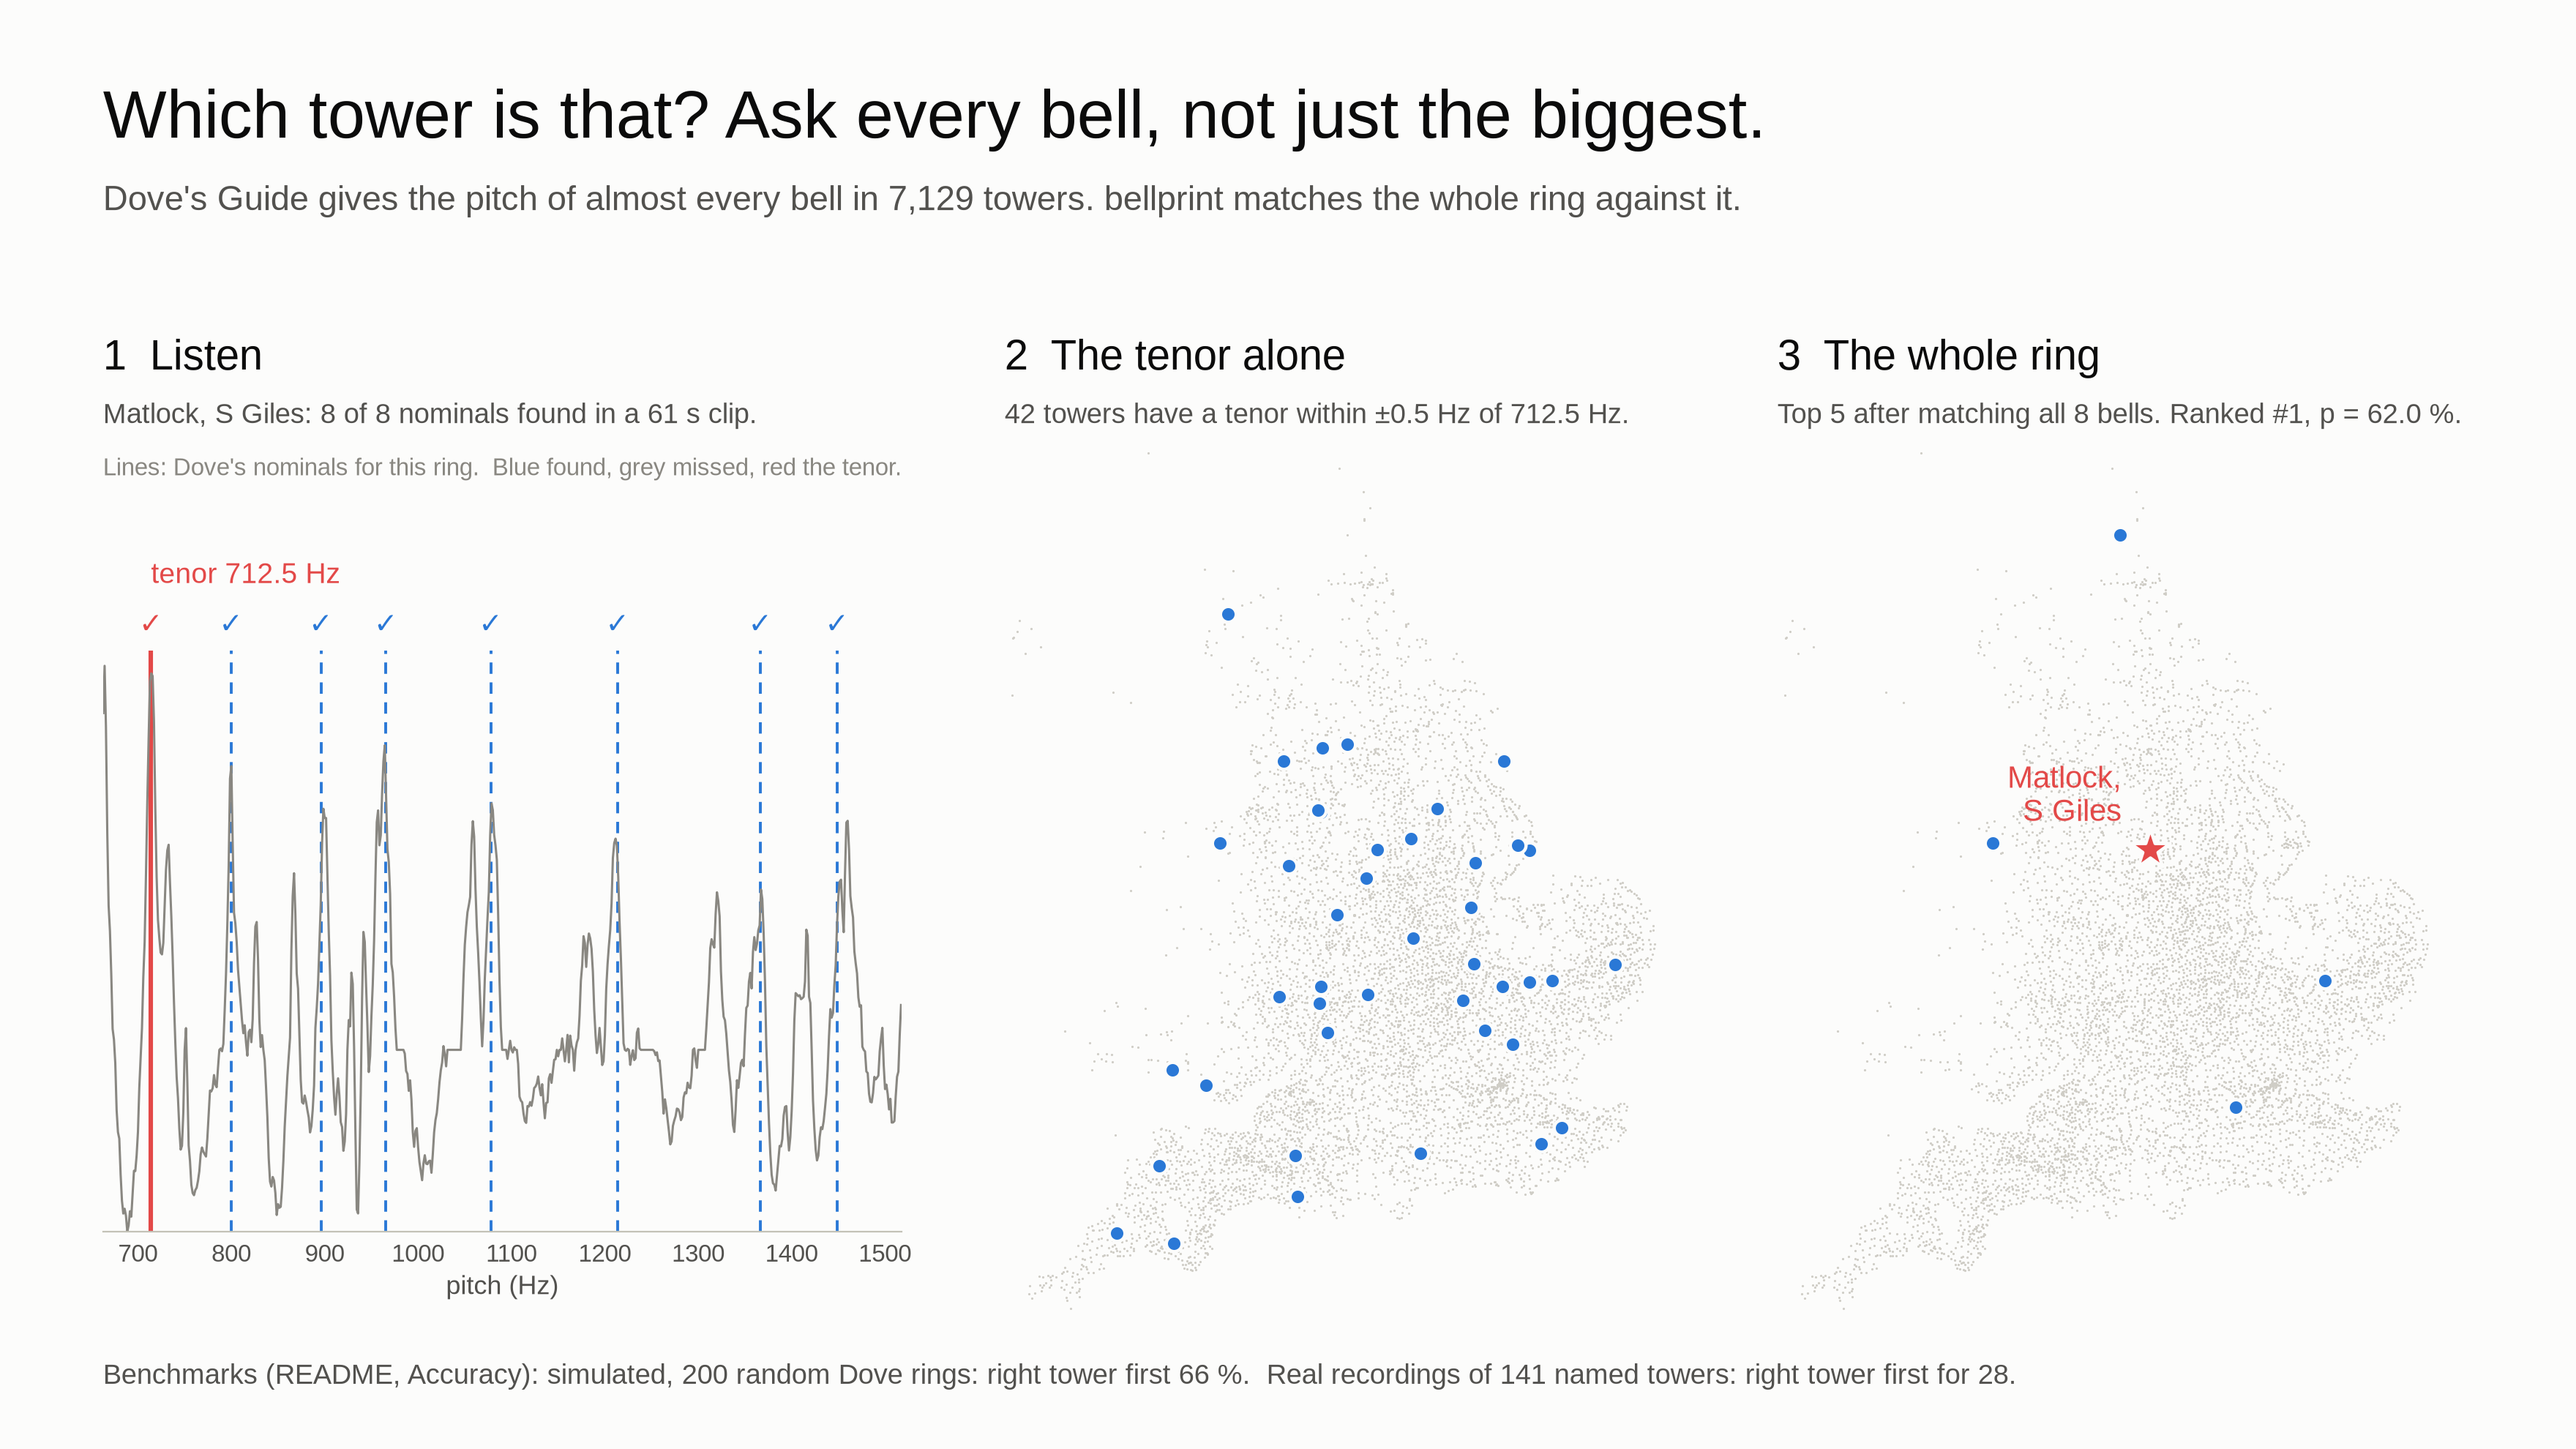
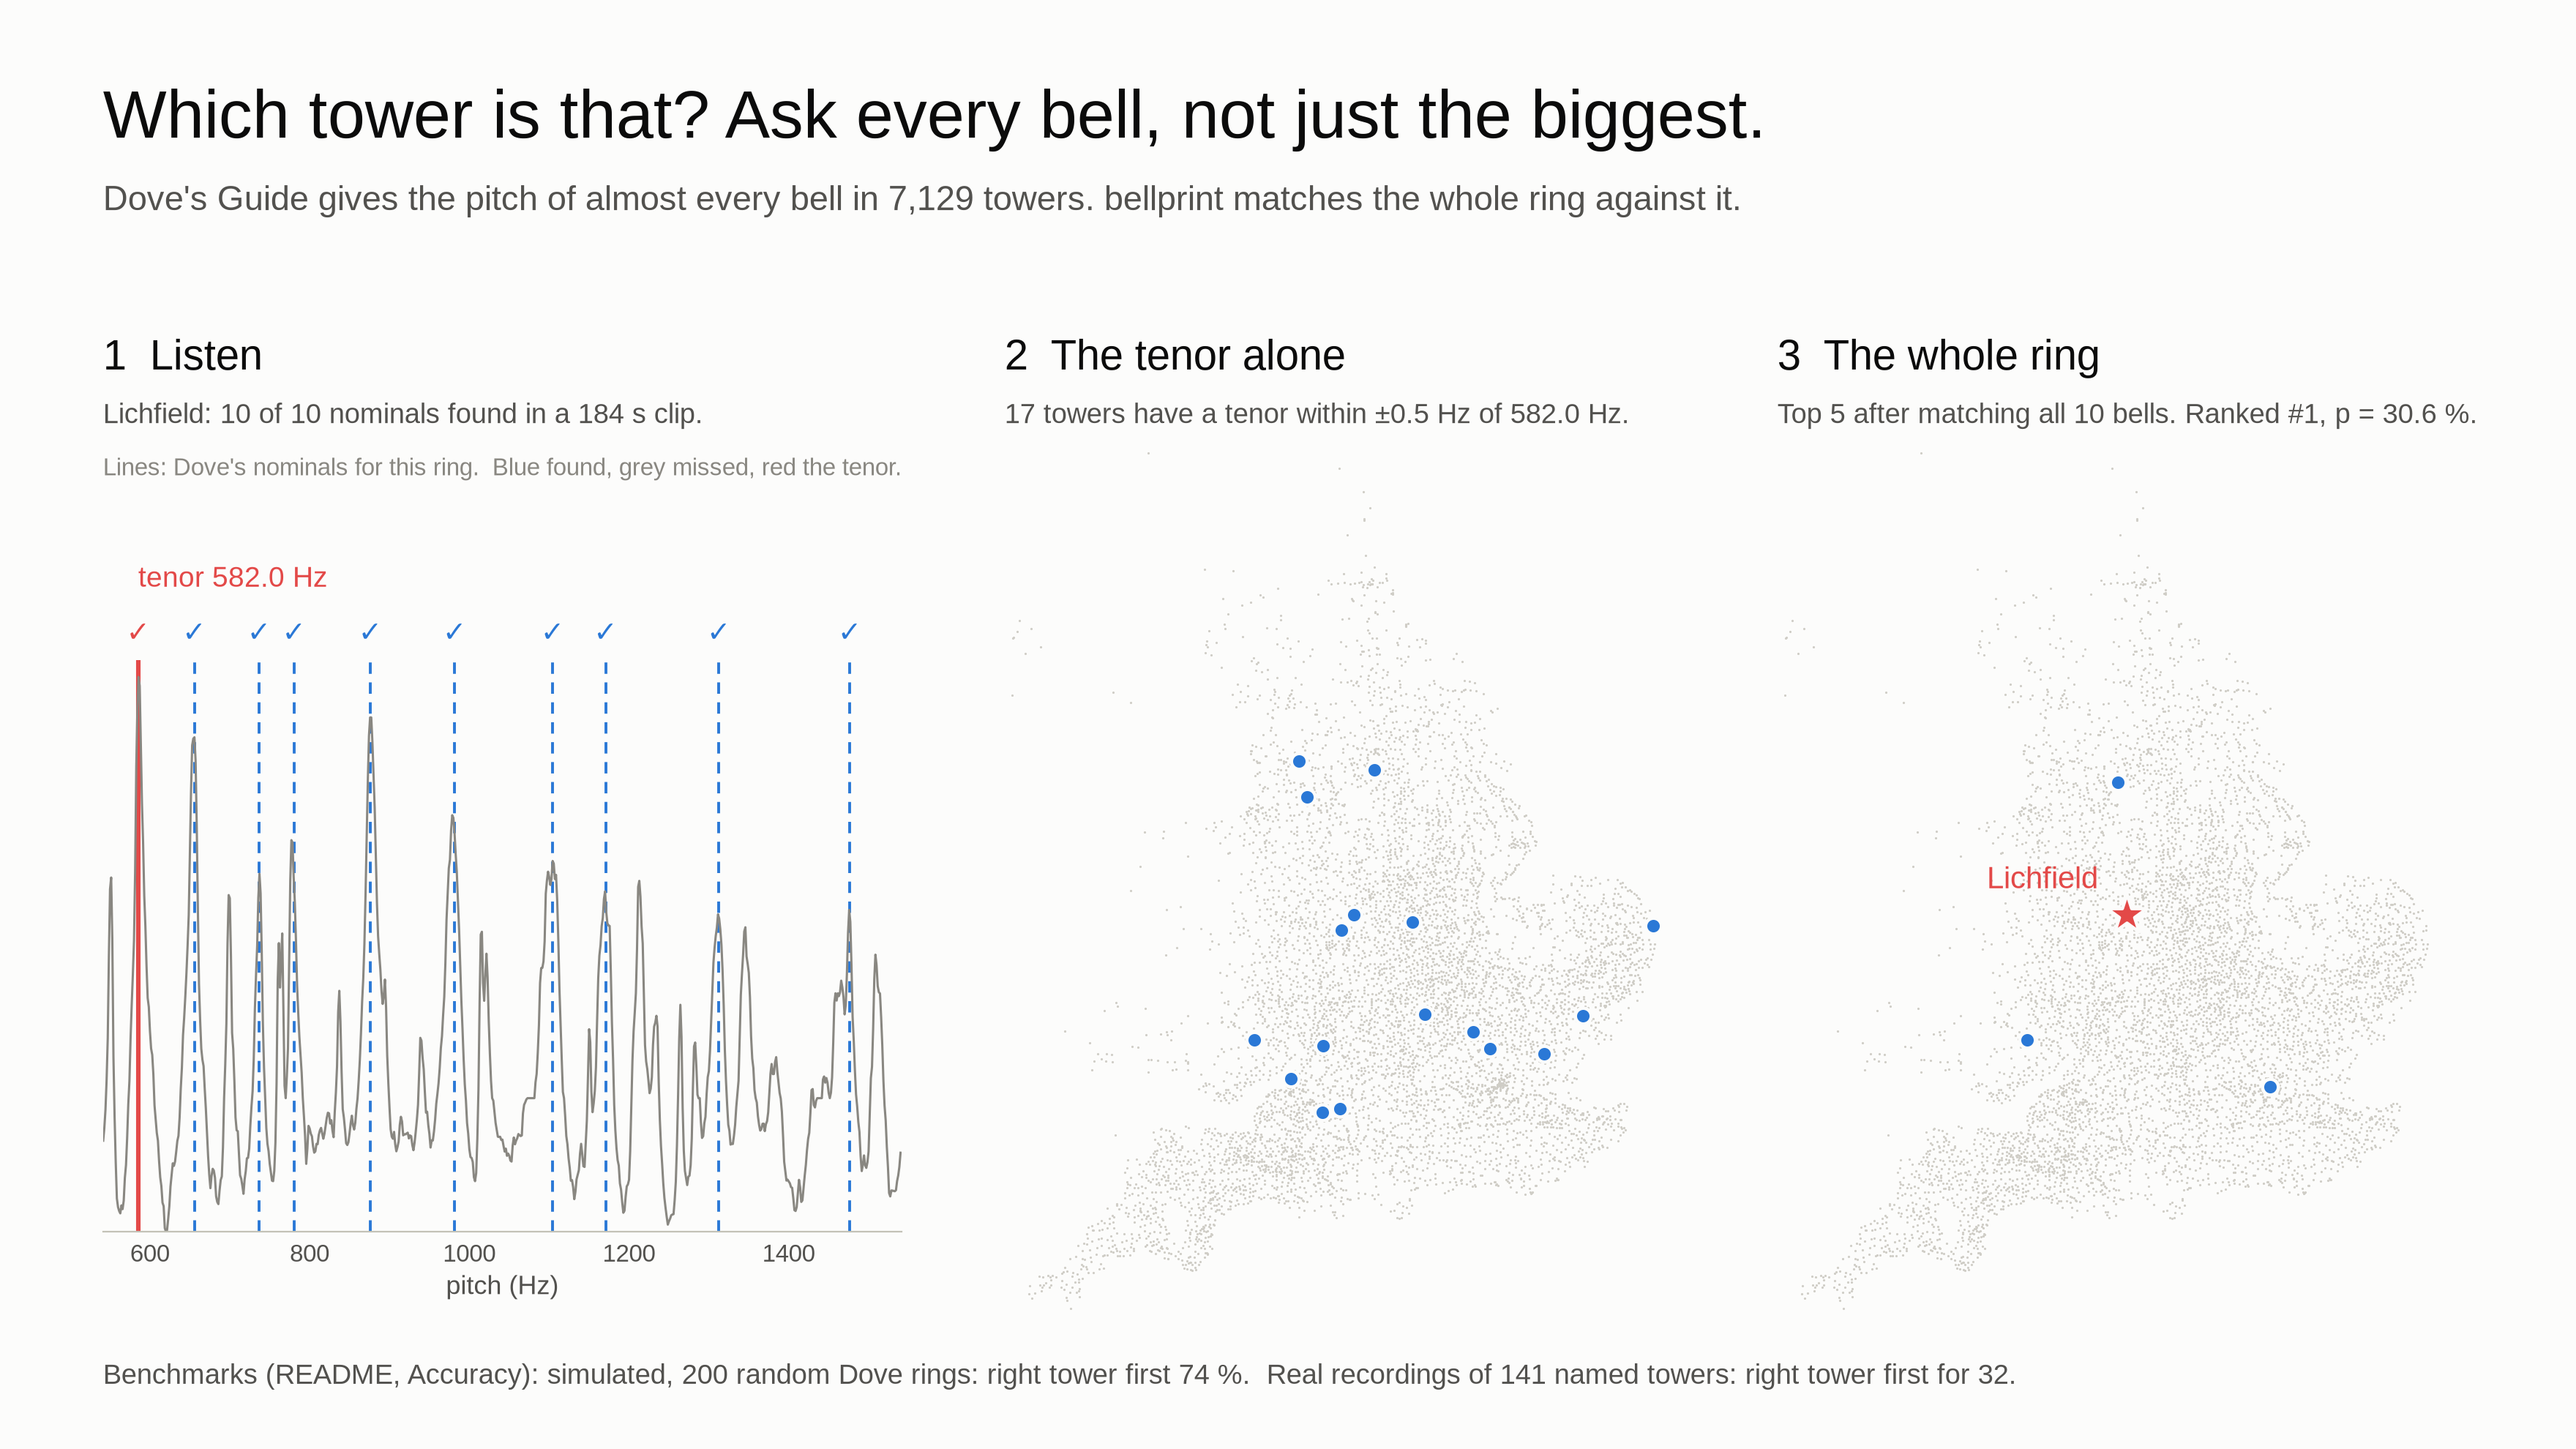
README: era-aware sim and tolerances; benchmarks 74 % sim, 32/141 real; header Lichfield
Matlock drops to rank 2 under the era tolerances, so the header moves to Lichfield Cathedral (rank 1, 10/10 nominals, 17 same-tenor towers). Long dedications are dropped from the panel labels.

diff --git a/tools/readme_figure.py b/tools/readme_figure.py
@@ -21,7 +21,7 @@ import numpy as np
 import soundfile as sf
 
 ROOT = Path(__file__).resolve().parent.parent
-CLIP = sys.argv[1] if len(sys.argv) > 1 else "fsg-matlock-st-giles"
+CLIP = sys.argv[1] if len(sys.argv) > 1 else "bbc-lichfield-cathedral"
 BIN = Path(os.environ.get("BELLPRINT_BIN", ROOT / "target/fastrel/bellprint"))
 OUT = ROOT / "docs/img/header.png"
 
@@ -32,8 +32,8 @@ HEARD_CENTS = 9.4  # where the matcher's 8 c Gaussian falls to 0.5 (matcher/scor
 BOUNDS = (-5.9, 1.9, 49.9, 55.9)  # lon/lat box: England and Wales
 # Keep in step with README.md's Accuracy table.
 FOOTER = (
-    "Benchmarks (README, Accuracy): simulated, 200 random Dove rings: right tower first 66 %.  "
-    "Real recordings of 141 named towers: right tower first for 28."
+    "Benchmarks (README, Accuracy): simulated, 200 random Dove rings: right tower first 74 %.  "
+    "Real recordings of 141 named towers: right tower first for 32."
 )
 
 plt.rcParams.update({"font.family": ["Liberation Sans", "DejaVu Sans"], "text.color": INK})
@@ -92,6 +92,12 @@ def spectrum(audio, windows, win_s=0.7):
 def heard(nominals, shift, peaks):
     peak_c = 1200 * np.log2(np.array([p["hz"] for p in peaks]))
     return [np.min(np.abs(peak_c - (1200 * np.log2(n) + shift))) <= HEARD_CENTS for n in nominals]
+
+
+def ring_label(ring, sep=", "):
+    """Place plus dedication, dropping the dedication when it would overrun a panel."""
+    full = f"{ring['place']}{sep}{ring['dedication']}"
+    return full if len(full) <= 24 else ring["place"]
 
 
 def panel_head(fig, x, y, num, title, sub):
@@ -170,7 +176,7 @@ def main():
     fig.text(0.04, 0.855, f"Dove's Guide gives the pitch of almost every bell in {len(towers):,} towers. "
              "bellprint matches the whole ring against it.", fontsize=17, color=INK2)
 
-    place = f"{ring['place']}, {ring['dedication']}"
+    place = ring_label(ring)
     panel_head(fig, 0.04, 0.745, "1", "Listen",
                f"{place}: {best['bells_heard']} of {ring['bells']} nominals found in a {secs:.0f} s clip.")
     fig.text(0.04, 0.672, "Lines: Dove's nominals for this ring.  Blue found, grey missed, red the tenor.",
@@ -194,7 +200,7 @@ def main():
         if m is not best:
             dot(ax3, m["ring"]["lon"], m["ring"]["lat"], BLUE)
     dot(ax3, ring["lon"], ring["lat"], RED, size=420, marker="*", z=4)
-    ax3.annotate(f"{ring['place']},\n{ring['dedication']}", (ring["lon"], ring["lat"]), xytext=(-14, 10),
+    ax3.annotate(ring_label(ring, ",\n"),(ring["lon"], ring["lat"]), xytext=(-14, 10),
                  textcoords="offset points", color=RED, fontsize=15, va="bottom", ha="right")
 
     fig.text(0.04, 0.045, FOOTER, fontsize=13.5, color=INK2)

diff --git a/README.md b/README.md
@@ -1,6 +1,6 @@
 # bellprint
 
-![Three panels: the spectrum of a real recording at Matlock, St Giles with its bells' nominals marked; a map of the 42 towers whose tenor shares that pitch; and a map where matching the whole ring ranks St Giles first.](docs/img/header.png)
+![Three panels: the spectrum of a real recording at Lichfield Cathedral with its bells' nominals marked; a map of the 17 towers whose tenor shares that pitch; and a map where matching the whole ring ranks Lichfield first.](docs/img/header.png)
 
 [![CI](https://github.com/Hexay/bellprint/actions/workflows/ci.yml/badge.svg)](https://github.com/Hexay/bellprint/actions/workflows/ci.yml)
 [![PyPI](https://img.shields.io/pypi/v/bellprint.svg)](https://pypi.org/project/bellprint/)
@@ -8,8 +8,8 @@
 
 Work out which church tower you can hear in a recording, from the pitches of its bells.
 
-**Status: early research software.** On simulated recordings it puts the right tower first about two times in
-three; on real recordings, about one time in five. See [Accuracy](#accuracy).
+**Status: early research software.** On simulated recordings it puts the right tower first about seven times
+in ten; on real recordings, nearly one time in four. See [Accuracy](#accuracy).
 
 ## Why the whole ring
 
@@ -49,6 +49,7 @@ cover Linux, macOS and Windows; from a checkout, `cargo run --release -p bp-cli 
    from a moving-median floor; bells pitched above that are skipped rather than counted as missing.
 2. **Bell model.** Each bell predicts lines at its hum, prime, tierce, quint, nominal, superquint and octave
    nominal, with tolerances in cents from published bell measurements ([research/acoustics.md](research/acoustics.md)).
+   Bells cast from 1896, when true-harmonic tuning began, get much tighter hum and prime tolerances.
 3. **Match.** Score every Dove ring on how many of its nominals are present and how well its predicted
    partials explain the observed lines, compared with chance. Bands often ring only the back or front bells
    of a larger ring, so those subsets are scored too, at a small penalty. One pitch shift is fitted per clip,
@@ -64,8 +65,8 @@ that rise when a bell strikes) and `--auto-window` (analyse only the most bell-l
 
 | Benchmark | Setup | Right tower first | In top 5 |
 |---|---|---|---|
-| Simulated, 200 random Dove rings | 8 s of rounds, 10 dB SNR, distractor tones, ±8 c speed and ±3 c Dove error, 5 % of rings retuned | **66 %** | 86 % |
-| Real recordings of 141 named towers ([data/corpus](data/corpus/README.md)) | Whole clips as published, no `--near` | **28 / 141** | 49 / 141 |
+| Simulated, 200 random Dove rings | 8 s of rounds, 10 dB SNR, distractor tones, ±8 c speed and ±3 c Dove error, 5 % of rings retuned, hum and prime spread by each bell's tuning era | **74 %** | 88 % |
+| Real recordings of 141 named towers ([data/corpus](data/corpus/README.md)) | Whole clips as published, no `--near` | **32 / 141** | 53 / 141 |
 
 - The simulator shares no code or constants with the matcher's bell model, but it is kinder than reality: no
   reverb, no automatic gain control, and ringing for the whole clip.
